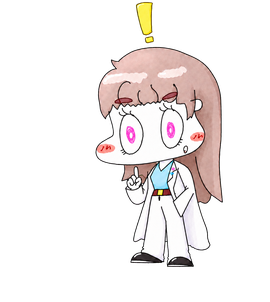
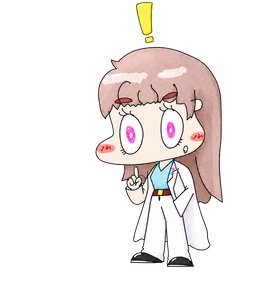
feat(bolttagu): repack the sprite atlases from sprite-pack-v9
v9 changes skin tone only -- warm ivory with peach-beige shading on face,
cheek, ear, neck and hands -- and keeps canvas coordinates. The union crop
comes out byte-identical to v8 at (87, 13, 1167, 1219), so the 270x302 cell
and the feet anchor are unchanged and only the pixels move.

The steam and floor sheets are byte-identical after the repack, which is the
expected shape of a skin-only change: translucent vapour carries no skin and
the floor carries no character.

Decouples the code, docs and provenance test from a specific pack version.
The test pinned "sprite-pack-v8", which would fail on every future artwork
refresh for no good reason; it now asserts the shape of the field and leaves
the geometry assertions to do the real guarding.

Changed region(s): [[0.3556, 0.3874, 0.7407, 0.5662], [0.4741, 0.596, 0.5333, 0.6854]]

diff --git a/scripts/build-bolttagu-assets.py b/scripts/build-bolttagu-assets.py
@@ -1,6 +1,6 @@
 """Pack the 1254x1254 bolttagu sprite pack into small aligned overlay atlases.
 
-The upstream pack ships one full-canvas PNG per frame (~26 MB for v8), which is far
+The upstream pack ships one full-canvas PNG per frame (~27 MB), which is far
 too large to commit.  Every frame shares the same canvas and feet anchor, so a
 single crop rectangle keeps all poses aligned while removing the empty margin.
 The crop is the union of every shipped frame's alpha bounding box, downscaled by
@@ -11,7 +11,7 @@ the 24 steam frames composite over them at runtime, so blink and steam stay
 independent loops the way ``idle-animation.js`` describes.
 
 Usage:
-    python scripts/build-bolttagu-assets.py --pack <sprite-pack-v8 directory>
+    python scripts/build-bolttagu-assets.py --pack <sprite-pack directory>
 """
 
 from __future__ import annotations
@@ -30,7 +30,7 @@ OUTPUT_DIR = REPO_ROOT / "src" / "engram_overlay" / "overlays" / "assets" / "bol
 
 # Cell order inside each generated sheet.  The overlay indexes these by name.
 # idle holds the pre-composited blink states; the pack's own states/idle.png is
-# skipped because it bakes in the static steam that v8 split out.
+# skipped because it bakes in the static steam the pack split out in v8.
 IDLE = ("animations/idle_blink/open.png", "animations/idle_blink/half.png", "animations/idle_blink/closed.png")
 STEAM = tuple(f"animations/idle_steam/{index:02d}.png" for index in range(1, 25))
 ALERT = ("states/alert_aha.png",)
@@ -120,7 +120,7 @@ def build(pack: Path) -> dict[str, object]:
 
 def main() -> None:
     parser = argparse.ArgumentParser(description=__doc__)
-    parser.add_argument("--pack", required=True, type=Path, help="sprite-pack-v8 directory")
+    parser.add_argument("--pack", required=True, type=Path, help="sprite-pack-vN directory")
     arguments = parser.parse_args()
     result = build(arguments.pack.expanduser())
     written: dict[str, int] = result["bytes"]  # type: ignore[assignment]

diff --git a/src/engram_overlay/overlays/bolttagu_2d.py b/src/engram_overlay/overlays/bolttagu_2d.py
@@ -1,4 +1,4 @@
-"""Bolttagu sprite overlay driven by the sprite-pack-v8 animation set.
+"""Bolttagu sprite overlay driven by the bolttagu sprite pack.
 
 The upstream pack is a set of full-canvas 1254x1254 PNGs.  ``scripts/build-bolttagu-assets.py``
 crops them to a shared rectangle and packs them into the horizontal sheets bundled here, so every
@@ -34,7 +34,7 @@ WONDERING_FRAME_MS = 100  # sprites.json declares 10 fps for the 8-frame loop
 ENTER_DURATIONS_MS = (200, 300, 220)
 EXIT_DURATIONS_MS = (220, 220, 260)
 
-# v8 idle: steam is a 24-frame 10 fps loop, blink is a fixed 210 ms sequence that
+# idle: steam is a 24-frame 10 fps loop, blink is a fixed 210 ms sequence that
 # re-arms itself 2.5-6 s after it finishes.
 STEAM_FRAME_MS = 100
 STEAM_CELLS = 24

diff --git a/tests/test_bolttagu_2d.py b/tests/test_bolttagu_2d.py
@@ -318,7 +318,8 @@ class AtlasTests(unittest.TestCase):
 
     def test_atlas_records_the_downscale_provenance(self) -> None:
         metadata = json.loads((ASSET_DIR / "atlas.json").read_text(encoding="utf-8"))
-        self.assertEqual(metadata["source"], "sprite-pack-v8")
+        # The pack version moves with the artwork; the geometry below must not.
+        self.assertRegex(metadata["source"], r"^sprite-pack-v\d+$")
         self.assertEqual(metadata["sourceCanvas"], [1254, 1254])
         self.assertEqual(metadata["scale"], 0.25)
         self.assertEqual(metadata["crop"], [87, 13, 1167, 1219])

diff --git a/docs/overlays.md b/docs/overlays.md
@@ -7,13 +7,14 @@
 
 ### 에셋
 
-- 원본 `sprite-pack-v8`은 1254×1254 전체 캔버스 PNG 26MB다. 그대로 담지 않는다.
+- 원본 sprite pack은 1254×1254 전체 캔버스 PNG 27MB다. 그대로 담지 않는다.
+- 현재 반영 버전은 `atlas.json`의 `source`에 기록된다 (`sprite-pack-v9`).
 - `scripts/build-bolttagu-assets.py`가 모든 프레임의 알파 bbox 합집합으로 한 번 crop하고 0.25배로 축소해 가로 sheet로 묶는다. 결과는 270×302 셀, 총 549 KiB.
 - 한 crop을 공유하므로 모든 포즈가 같은 발 기준점에 정렬된다.
 - crop·배율·발 기준점은 `assets/bolttagu_2d/atlas.json`에 기록되고 overlay가 그 값을 읽는다. 코드에 하드코딩하지 않는다.
 
 ```powershell
-python scripts/build-bolttagu-assets.py --pack <sprite-pack-v8>
+python scripts/build-bolttagu-assets.py --pack <sprite-pack-vN>
 ```
 
 ### 상태 매핑
